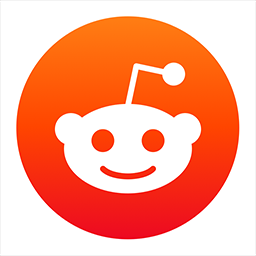
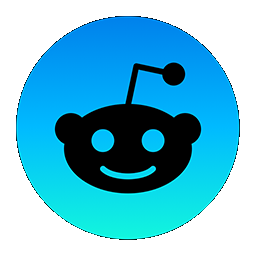
Things starting to look better

diff --git a/src/svgs/House.js b/src/svgs/House.js
@@ -1,0 +1,77 @@
+import React from "react";
+
+const House = props => {
+  return (
+    <svg
+      xmlns="http://www.w3.org/2000/svg"
+      x="0px"
+      y="0px"
+      width="64px"
+      height="64px"
+      viewBox="0 0 64 64"
+    >
+      <g>
+        <g stroke-width="2">
+          <polyline
+            data-cap="butt"
+            data-color="color-2"
+            points="2 28 32 4 62 28"
+            fill="none"
+            stroke={props.color || `#000`}
+            stroke-miterlimit="10"
+            stroke-width="2"
+            stroke-linecap="butt"
+            stroke-linejoin="miter"
+          />
+          <polyline
+            data-cap="butt"
+            points="26 60 26 43 38 43 38 60"
+            fill="none"
+            stroke={props.color || `#000`}
+            stroke-miterlimit="10"
+            stroke-width="2"
+            stroke-linecap="butt"
+            stroke-linejoin="miter"
+          />
+          <polyline
+            points="10 30 10 60 54 60 54 30"
+            fill="none"
+            stroke={props.color || `#000`}
+            stroke-linecap="square"
+            stroke-miterlimit="10"
+            stroke-width="2"
+            stroke-linejoin="miter"
+          />
+          <rect
+            x="27"
+            y="25"
+            width="10"
+            height="10"
+            fill="none"
+            stroke={props.color || `#000`}
+            stroke-linecap="square"
+            stroke-miterlimit="10"
+            stroke-width="2"
+            stroke-linejoin="miter"
+          />
+          <line
+            data-cap="butt"
+            data-color="color-2"
+            x1="14"
+            y1="18.4"
+            x2="14"
+            y2="8"
+            fill="none"
+            stroke={props.color || `#000`}
+            stroke-miterlimit="10"
+            stroke-width="2"
+            stroke-linecap="butt"
+            stroke-linejoin="miter"
+          />
+        </g>
+      </g>
+    </svg>
+  );
+};
+
+export default House;

diff --git a/src/PreddictApp.js b/src/PreddictApp.js
@@ -9,8 +9,8 @@ import styled, { ThemeProvider } from "styled-components";
 
 import theme from "./style/themes";
 
-import { ReactComponent as EyeSvg } from "./static/eye.svg";
-import { ReactComponent as HouseSvg } from "./static/house.svg";
+import EyeSvg from "./svgs/Eye";
+import HouseSvg from "./svgs/House";
 
 import MainPage from "./MainPage";
 const Watching = () => <div>Watching Page</div>;
@@ -26,6 +26,8 @@ const AppWrapper = styled.div`
     ${props => props.theme.a},
     ${props => props.theme.a}
   );
+
+  color: ${props => props.theme.d};
 `;
 
 const Navigation = styled.nav`
@@ -37,10 +39,11 @@ const Navigation = styled.nav`
     font-size: 4rem;
     text-decoration: none;
     padding: 0.5rem;
+    border-right: 2px solid transparent;
   }
 
   a.active {
-    background-color: white;
+    border-right: 2px solid ${props => props.theme.c};
   }
 `;
 
@@ -57,7 +60,7 @@ class PreddictApp extends Component {
             <Navigation>
               <NavLink exact to="/" title="Go Home" activeClassName="active">
                 <span role="img" aria-label="Go Home">
-                  <HouseSvg />
+                  <HouseSvg color={theme.c} />
                 </span>
               </NavLink>
               <NavLink
@@ -66,7 +69,7 @@ class PreddictApp extends Component {
                 activeClassName="active"
               >
                 <span role="img" aria-label="Go to Watching">
-                  <EyeSvg />
+                  <EyeSvg color={theme.c} />
                 </span>
               </NavLink>
             </Navigation>

diff --git a/src/SearchBar.js b/src/SearchBar.js
@@ -1,14 +1,19 @@
 import React, { Component } from "react";
 import styled from "styled-components";
 
+import SearchSvg from "./svgs/Search";
+
 const Wrapper = styled.div`
   padding: 1rem;
 `;
 const SearchInput = styled.input`
   width: 100%;
-  font-size: 1.5rem;
-  padding: 0.5rem 0.2rem;
-  border-radius: 0.25rem;
+  font-size: 1.2rem;
+  padding: 0.5rem;
+  border: none;
+  background-color: ${props => props.theme.b};
+  color: ${props => props.theme.d};
+  outline-color: ${props => props.theme.c};
 `;
 const PopularSubContainer = styled.div`
   margin: 0.5rem 0;
@@ -19,12 +24,28 @@ const PopularSubContainer = styled.div`
 const PopularSub = styled.span`
   font-size: 1.2rem;
 `;
+const SearchForm = styled.form`
+  border-radius: 0.25rem;
+  background-color: ${props => props.theme.b};
+
+  display: flex;
+  align-items: center;
+
+  svg {
+    height: 20px;
+    width: 20px;
+    padding: 10px;
+  }
+`;
 
 export default class SearchBar extends Component {
   render() {
     return (
       <Wrapper>
-        <SearchInput type="text" placeholder="Subreddit name here..." />
+        <SearchForm>
+          <SearchSvg color="#5CF0F7" />
+          <SearchInput type="text" placeholder="Subreddit name here..." />
+        </SearchForm>
         <PopularSubContainer>
           <PopularSub>/r/funny</PopularSub>
           <PopularSub>/r/Aww</PopularSub>

diff --git a/src/svgs/Eye.js b/src/svgs/Eye.js
@@ -1,0 +1,39 @@
+import React from "react";
+
+const Eye = props => {
+  return (
+    <svg viewBox="0 0 64 64" xmlns="http://www.w3.org/2000/svg">
+      <circle cx="32.004" cy="28" r="5.996" fill={props.color || `#000`} />
+      <path
+        d="M2.537,33.673a2.9,2.9,0,0,1-.008-3.353C5.921,25.507,16.793,12,32,12c15.075,0,26.022,13.487,29.459,18.311a2.9,2.9,0,0,1-.008,3.373C57.992,38.5,46.96,52,32,52,16.912,52,5.955,38.481,2.537,33.673Z"
+        fill="none"
+        stroke={props.color || `#000`}
+        stroke-linecap="square"
+        stroke-miterlimit="10"
+        stroke-width="2"
+      />
+      <circle
+        cx="32.004"
+        cy="28"
+        r="15.996"
+        fill="none"
+        stroke={props.color || `#000`}
+        stroke-linecap="square"
+        stroke-miterlimit="10"
+        stroke-width="2"
+      />
+      <circle
+        cx="32.004"
+        cy="28"
+        r="5.996"
+        fill="none"
+        stroke={props.color || `#000`}
+        stroke-linecap="square"
+        stroke-miterlimit="10"
+        stroke-width="2"
+      />
+    </svg>
+  );
+};
+
+export default Eye;

diff --git a/src/svgs/Search.js b/src/svgs/Search.js
@@ -1,0 +1,14 @@
+import React from "react";
+
+const Search = props => {
+  return (
+    <svg xmlns="http://www.w3.org/2000/svg" viewBox="0 0 13 12">
+      <g stroke-width="2" stroke={props.color || "fff"} fill="none">
+        <path d="M11.29 11.71l-4-4" />
+        <circle cx="5" cy="5" r="4" />
+      </g>
+    </svg>
+  );
+};
+
+export default Search;

diff --git a/src/PostList.js b/src/PostList.js
@@ -8,6 +8,9 @@ const PostContainer = styled.div`
   display: grid;
   grid-template: 1fr / auto 1fr auto;
   grid-gap: 0.5rem;
+  align-items: center;
+  border-bottom: 2px solid white;
+  padding: 1rem;
 `;
 
 const PostImage = styled.img`
